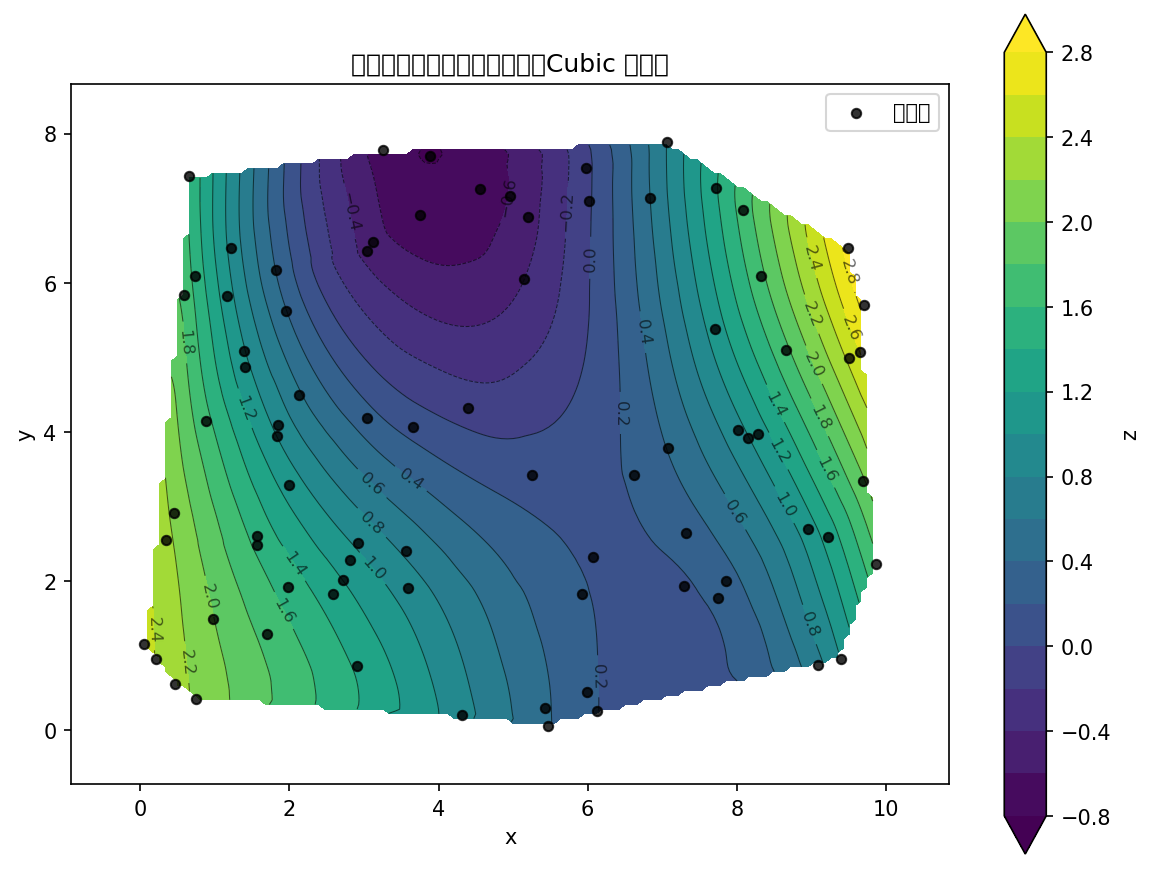
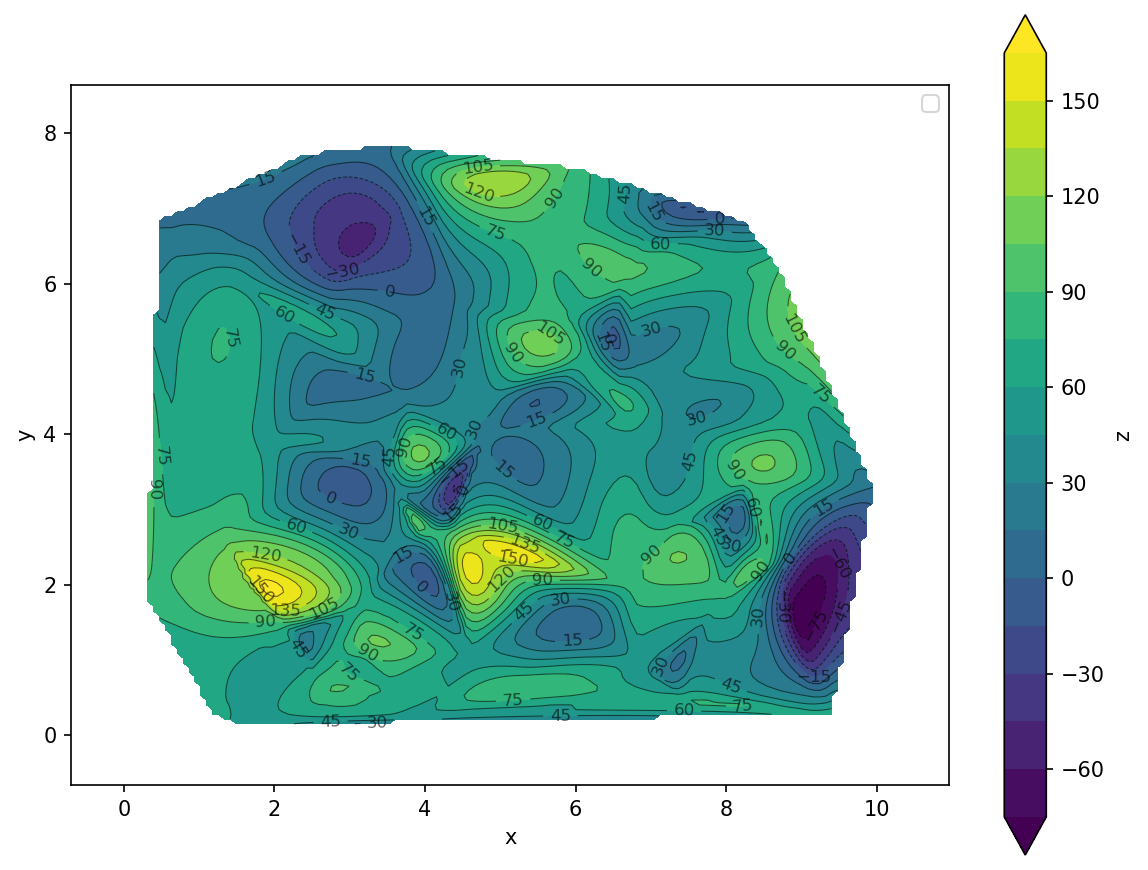
edit

diff --git a/contour_from_scatter.py b/contour_from_scatter.py
@@ -1,13 +1,10 @@
 """
-Tool for drawing contour maps from irregularly placed data.
-
-Generates smooth contours from n points (x, y) with corresponding z values via:
-Delaunay triangulation -> grid interpolation -> contour tracing.
+A tool for drawing smooth contour maps on the xy-plane from $n$ points $(x, y)$
+with corresponding values $z$.
 """
 
 import numpy as np
-from scipy.interpolate import LinearNDInterpolator, CloughTocher2DInterpolator
-from scipy.spatial import Delaunay
+from scipy.interpolate import CloughTocher2DInterpolator
 import matplotlib
 matplotlib.use("Agg")  # Enables image saving in headless environments (use TkAgg etc. for interactive display)
 import matplotlib.pyplot as plt
@@ -47,6 +44,7 @@ def build_grid(
     xi = np.linspace(x_min - margin_x, x_max + margin_x, n_grid)
     yi = np.linspace(y_min - margin_y, y_max + margin_y, n_grid)
     X_grid, Y_grid = np.meshgrid(xi, yi)
+    # X_grid, Y_grid shape: (n_grid, n_grid)
     return X_grid, Y_grid
 
 
@@ -56,7 +54,6 @@ def interpolate_to_grid(
     z: np.ndarray,
     X_grid: np.ndarray,
     Y_grid: np.ndarray,
-    method: Literal["linear", "cubic"] = "linear",
 ) -> np.ndarray:
     """
     Interpolate z on grid points based on Delaunay triangulation.
@@ -67,9 +64,6 @@ def interpolate_to_grid(
         Coordinates and values of observation points
     X_grid, Y_grid : ndarray
         Grid coordinates (return value of build_grid)
-    method : 'linear' | 'cubic'
-        'linear': Linear interpolation (linear within each triangle)
-        'cubic': Clough-Tocher spline (C1 continuous)
 
     Returns
     -------
@@ -79,12 +73,8 @@ def interpolate_to_grid(
     points = np.column_stack([np.asarray(x, dtype=float), np.asarray(y, dtype=float)])
     z = np.asarray(z, dtype=float).ravel()
 
-    if method == "linear":
-        interp = LinearNDInterpolator(points, z, fill_value=np.nan)
-    elif method == "cubic":
-        interp = CloughTocher2DInterpolator(points, z, fill_value=np.nan)
-    else:
-        raise ValueError("method must be 'linear' or 'cubic'")
+    interp = CloughTocher2DInterpolator(points, z, fill_value=np.nan)
+
 
     # Evaluate interpolator at all grid points
     grid_points = np.column_stack([X_grid.ravel(), Y_grid.ravel()])
@@ -97,16 +87,10 @@ def plot_contour(
     x: np.ndarray,
     y: np.ndarray,
     z: np.ndarray,
-    *,
-    method: Literal["linear", "cubic"] = "linear",
     n_grid: int = 100,
     levels: Optional[Union[int, List[float], np.ndarray]] = 15,
-    show_scatter: bool = True,
-    show_labels: bool = True,
     cmap: str = "viridis",
     figsize: Tuple[float, float] = (8, 6),
-    title: Optional[str] = None,
-    ax: Optional[plt.Axes] = None,
 ) -> Tuple[plt.Figure, plt.Axes]:
     """
     Draw a contour plot from irregular (x, y, z) data.
@@ -115,16 +99,10 @@ def plot_contour(
     ----------
     x, y, z : array-like
         Coordinates and values of observation points
-    method : 'linear' | 'cubic'
-        Interpolation method
     n_grid : int
         Resolution of the interpolation grid
     levels : int or array-like
         Number of contour levels (int) or list of level values
-    show_scatter : bool
-        Whether to plot observation points
-    show_labels : bool
-        Whether to add labels to contour lines
     cmap : str
         Colormap name (matplotlib)
     figsize, title, ax
@@ -141,71 +119,42 @@ def plot_contour(
         raise ValueError("x, y, z must have the same length")
 
     X_grid, Y_grid = build_grid(x, y, n_grid=n_grid, margin_ratio=0.1)
-    Z_grid = interpolate_to_grid(x, y, z, X_grid, Y_grid, method=method)
+    Z_grid = interpolate_to_grid(x, y, z, X_grid, Y_grid)
 
     # Mask extrapolated NaN regions for safe contour plotting
     Z_plot = np.ma.masked_invalid(Z_grid)
 
-    if ax is None:
-        fig, ax = plt.subplots(figsize=figsize)
-    else:
-        fig = ax.figure
+
+    fig, ax = plt.subplots(figsize=figsize)
 
     # Filled contours (background gradient)
     cs = ax.contourf(X_grid, Y_grid, Z_plot, levels=levels, cmap=cmap, extend="both")
     # Contour lines
     cs_lines = ax.contour(X_grid, Y_grid, Z_plot, levels=levels, colors="k", linewidths=0.5, alpha=0.6)
-    if show_labels:
-        ax.clabel(cs_lines, inline=True, fontsize=8)
 
-    if show_scatter:
-        ax.scatter(x, y, c="black", s=20, alpha=0.8, zorder=5, label="Observation points")
+    ax.clabel(cs_lines, inline=True, fontsize=8)
 
     ax.set_xlabel("x")
     ax.set_ylabel("y")
     ax.set_aspect("equal")
-    if title:
-        ax.set_title(title)
     plt.colorbar(cs, ax=ax, label="z")
     ax.legend(loc="upper right")
 
     return fig, ax
 
-
-def get_delaunay_triangulation(x: np.ndarray, y: np.ndarray) -> Delaunay:
-    """
-    Return Delaunay triangulation of the given points (for debugging/visualization).
-
-    Parameters
-    ----------
-    x, y : array-like
-        Point coordinates
-
-    Returns
-    -------
-    tri : scipy.spatial.Delaunay
-    """
-    points = np.column_stack([np.asarray(x).ravel(), np.asarray(y).ravel()])
-    return Delaunay(points)
-
-
 if __name__ == "__main__":
     # Example: draw contours from random observation points
-    np.random.seed(42)
+    np.random.seed(41)
     n = 80
     x = np.random.rand(n) * 10
     y = np.random.rand(n) * 8
-    z = np.sin(x * 0.5) * np.cos(y * 0.4) + 0.1 * (x - 5) ** 2
+    z = np.random.rand(n) * 100
 
     fig, ax = plot_contour(
         x, y, z,
-        method="cubic",
         n_grid=150,
         levels=20,
-        show_scatter=True,
-        show_labels=True,
         cmap="viridis",
-        title="Contour from irregular data (Cubic interpolation)",
     )
     plt.tight_layout()
     plt.savefig("contour_example.png", dpi=150, bbox_inches="tight")

diff --git a/README.md b/README.md
@@ -1,6 +1,6 @@
 Contour Map Tool for Discrete Data
 
-A tool for drawing smooth contour maps on the xy-plane from $n$ points $(x, y)$ with corresponding values $z$. Also, this tool will highlight three areas with high corresponding values within a given range.
+A tool for drawing smooth contour maps on the xy-plane from $n$ points $(x, y)$ with corresponding values $z$. 
 
 Overview
 
@@ -9,10 +9,9 @@ This program uses cubic spline interpolation to generate contours from discrete 
 Features
 
 * Discrete data handling: Automatically generate contours from arbitrary coordinates $(x_i, y_i, z_i)$
-* Finding “Good” points: Show several spots with high z value. 
 * Interpolation algorithms: Clough-Tocher spline
 * Colormap support: Gradient display based on data values
-* Customization: Set the number of areas to highlight, contour levels, and label display.
+* Customization: Set contour levels, and label display.
 
 Algorithm
 
